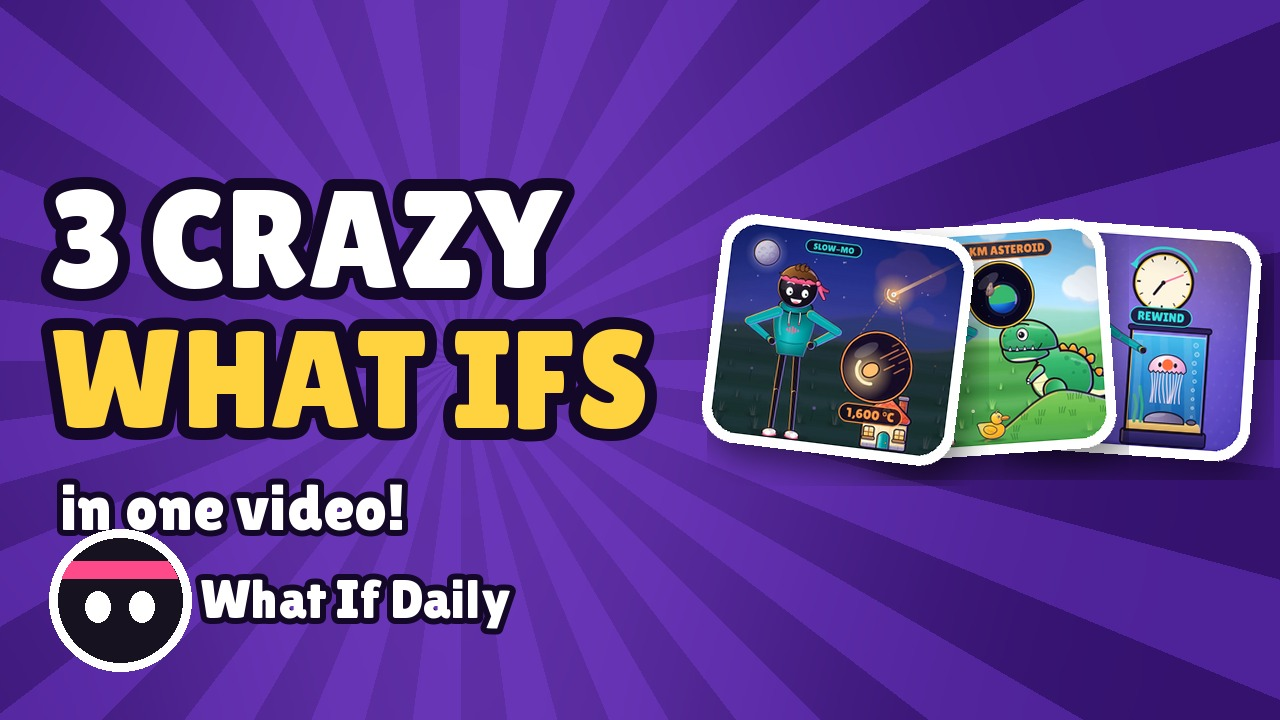
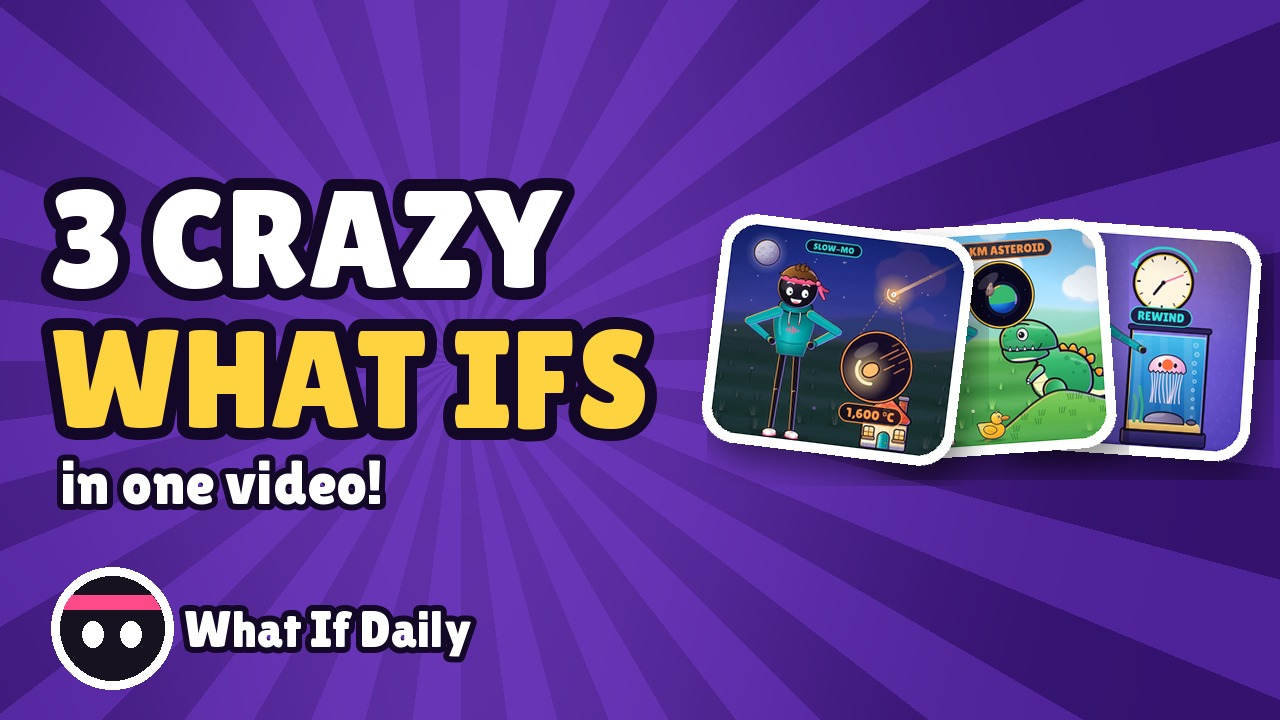
Weekly thumbnail: brand badge clear of the subtitle (owner); 2-8 Nov thumbnail v2
Claude-Session: https://claude.ai/code/session_01CcPTQgZkcoR6w4hqDBaxUU

Changed region(s): [[0.0312, 0.6111, 0.4062, 0.9778]]

diff --git a/weekly/thumbnail.py b/weekly/thumbnail.py
@@ -87,9 +87,9 @@ def main():
         d.text((x, y), s, font=f, fill=fill, stroke_width=max(6, sz // 11), stroke_fill=INK)
     txt(50, 160, f'{n} CRAZY', HS, (255, 255, 255))
     txt(50, 300, 'WHAT IFS', HS, (255, 210, 63))
-    txt(60, 470, man.get('subtitle', 'in one video!'), 64, (255, 255, 255))
-    badge(d, 120, 600, 62)
-    txt(200, 568, 'What If Daily', 54, (255, 255, 255))
+    txt(60, 448, man.get('subtitle', 'in one video!'), 60, (255, 255, 255))   # owner 8 Nov: clear gap above the badge
+    badge(d, 112, 628, 52)
+    txt(184, 600, 'What If Daily', 50, (255, 255, 255))
     rgb = img.convert('RGB')
     q = 92
     while True:
